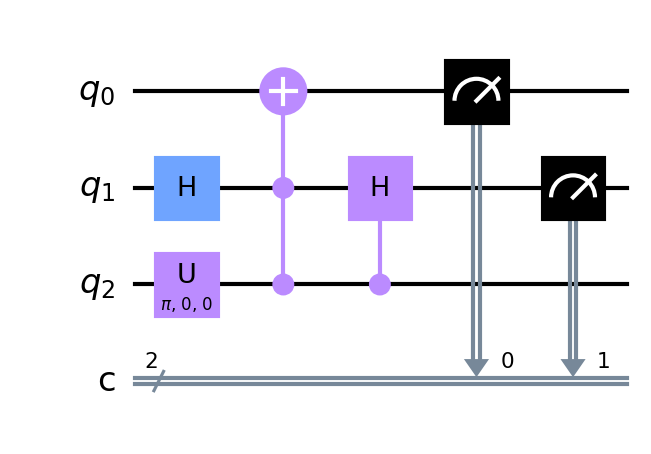
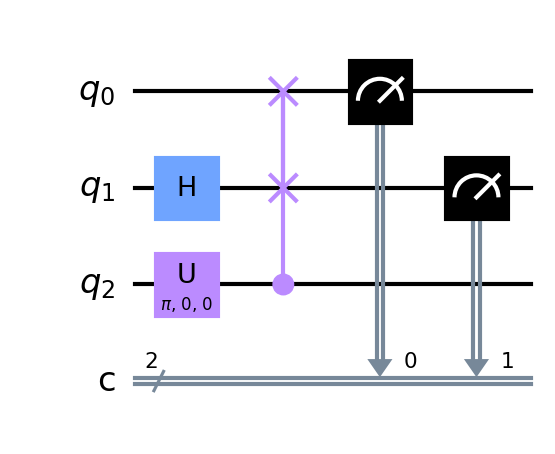
nullify and player move order switch

diff --git a/QuantumPokemon.py b/QuantumPokemon.py
@@ -1,4 +1,4 @@
-from Quantum import fiftyPercentAtk, measure, reflect
+from Quantum import fiftyPercentAtk, measure, nullify, reflect, twentyFivePercentAtk
 from qiskit import QuantumCircuit, QuantumRegister, ClassicalRegister, Aer, execute
 import numpy as np
 import matplotlib.pyplot as plt
@@ -6,13 +6,35 @@ from qiskit.visualization import plot_histogram
 from qiskit.quantum_info import Statevector
 
 
+
+move_history_map = { 
+    "50%": 20,
+    "25%": 10
+}
+
+def dmg_cnts(measure_results, move_history, first_player):
+    bases = [0, 0]
+    multipliers = []
+    multipliers.append(types[type_list[first_player]]["attack"])
+    multipliers.append(types[type_list[1 - first_player]]["attack"])
+    final_dmg = [0, 0]
+    if move_history[-1] == "reflect":
+        multipliers[0], multipliers[1] = multipliers[1], multipliers[0]
+        bases[0] = move_history_map[move_history[-2]]
+    else:
+        bases[0] = move_history_map[move_history[-1]]
+        bases[1] = move_history_map[move_history[-2]]
+    final_dmg[0] = measure_results[0] * bases[0] * multipliers[0]
+    final_dmg[1] = measure_results[1] * bases[1] * multipliers[1]
+    return final_dmg
+
 aux = 2
 atk = 1
 defense = 0
 move_count = 0
 moves = {'a': 10, 'b': 15, 'c': 20, 'd': 25}
-quantum_moves = ['f', 'r']
-move_map = {'f': fiftyPercentAtk, 'r': reflect}
+quantum_moves = ['25%', '50%', 'reflect', 'nullify']
+move_map = {'25%': twentyFivePercentAtk, '50%': fiftyPercentAtk, 'r': reflect}
 
 types = {
     "1": {
@@ -37,21 +59,20 @@ health_list = [types[type_list[0]]["health"], types[type_list[1]]["health"]]
 player = 0
 
 qc = QuantumCircuit(3, 2)
+move_history = []
 while health_list[0] > 0 and health_list[1] > 0:
     if move_count > 0 and move_count % 2 == 0:
-        base = 20
-        results = measure(qc)
+        results = measure(qc, move_history)
+        first_player = 1 - ((move_count % 4) // 2)
+        dmgs = dmg_cnts(results, move_history, first_player)
+        print("Player " + str(first_player) + " received " + str(dmgs[0]) + " damage")
+        print("Player " + str(1 - first_player) + " received " + str(dmgs[1]) + " damage")
+        health_list[first_player] -= dmgs[0]
+        health_list[1 - first_player] -= dmgs[1]
 
-        #attack_list should be the other player's attack
-        p1_dmg = results[0] * base * types[type_list[1]]["attack"]
-        p2_dmg = results[1] * base * types[type_list[0]]["attack"]
-        print("Player 1 received " + str(p1_dmg) + " damage")
-        print("Player 2 received " + str(p2_dmg) + " damage")
-        health_list[0] -= p1_dmg
-        health_list[1] -= p2_dmg
-
-            
         qc = QuantumCircuit(3,2)
+    if move_count > 0 and move_count % 4 == 0: # keeps the game fair
+        player = 1 - player
     #select moves
     print("Your health is " + str(health_list[player]))
     print("Your moves are " + str(list(moves.keys())))
@@ -65,10 +86,15 @@ while health_list[0] > 0 and health_list[1] > 0:
         move = input("Player " + str(player + 1) +  ", enter the letter for your move: ")
     
     if move in quantum_moves:
-        if move == 'f':
+        if move == '50%':
             fiftyPercentAtk(qc, types[type_list[player]]["attack"], player)
-        elif move == 'r':
+        elif move == 'reflect':
             reflect(qc, types[type_list[player]]["defense"], player)
+        elif move == '25%':
+            twentyFivePercentAtk(qc, types[type_list[player]]["attack"], player)
+        elif move == 'nullify':
+            nullify(qc, types[type_list[player]]["defense"], player, move_history[-1])
+        move_history.append(move)
     else:
         print("Your move did " + str(moves[move]) + " damage")
         health_list[player - 1] -= moves[move]

diff --git a/Quantum.py b/Quantum.py
@@ -10,29 +10,37 @@ aux = 2
 #defense = 0
 
 def fiftyPercentAtk(qc, multiplier, current_player):
-    base = 20
     atk = current_player
     defense = 1 - current_player
     qc.h(defense)
-    # qc.measure(defense, 0)
-    # counts = execute(qc, backend = Aer.get_backend('qasm_simulator'), shots=1).result().get_counts(qc)
-    # if '01' in counts:
-    #     return newAtk
-    # return 0
+
+def twentyFivePercentAtk(qc, multiplier, current_player):
+    defense = 1 - current_player
+    createUnitary(qc, 0.25, defense)
 
 def reflect(qc, probability, current_player):
     defense = current_player
     atk = 1 - current_player
     createUnitary(qc, probability, aux)
-    qc.ccx(aux, defense, atk)
-    qc.ch(aux, defense)
+    qc.cswap(aux, atk, defense)
 
-def measure(qc):
+def nullify(qc, probability, current_player, move_to_nullify):
+    if move_to_nullify == '50%':
+        createUnitary(qc, probability, aux)
+        qc.ch(aux, current_player)
+    elif move_to_nullify == '25%':
+        createUnitary(qc, probability, aux)
+        createUnitaryInverseControlled(qc, 0.25, aux, current_player)
+
+
+def measure(qc, move_history):
+    p1_move = move_history[-2]
+    p2_move = move_history[-1]
     qc.measure(range(2), range(2))
     counts = execute(qc, backend = Aer.get_backend('qasm_simulator'), shots=1).result().get_counts(qc)
     result = list(counts.keys())[0]
     qc.draw('mpl', filename='circuit.png')
-    print(result)
+    #print(result)
     #returning [p1, p2]
     return [int(result[1]), int(result[0])]
 
@@ -40,20 +48,19 @@ def measure(qc):
 #probability is probability that targetted qubit is affected
 def createUnitary(qc, probability, qubit):
     qc.u(2 * np.arcsin(probability ** 0.5),0,0,qubit)
+def createUnitaryInverseControlled(qc, probability, control, target):
+    qc.cu(2 * np.arcsin(probability ** 0.5),np.pi,np.pi,0,control, target)
 
 
 if __name__ == "__main__":
-    qc = QuantumCircuit(3,2)
-    fiftyPercentAtk(qc, 0.5)
-    reflect(qc,0.1)
+
+    qc = QuantumCircuit(3,3)
+    fiftyPercentAtk(qc, 1, 0)
+    nullify(qc, 1, 1, "50%")
+
+    qc.measure([0,1], [0,1])
     qc.draw('mpl', filename='circuit.png')
 
-# qc.h(defense)
-# fiftyPercentAtk(1.15)
-# reflect()
-# qc.measure([atk[0], defense[0]], cbits)
-# qc.draw('mpl', filename='circuit.png')
-
-# counts = execute(qc, backend = Aer.get_backend('qasm_simulator'), shots=1).result().get_counts(qc)
-# print(counts)
-# plot_histogram(counts, filename='histogram.png')
+    counts = execute(qc, backend = Aer.get_backend('qasm_simulator'), shots=1024).result().get_counts(qc)
+    print(counts)
+    plot_histogram(counts, filename='histogram.png')
